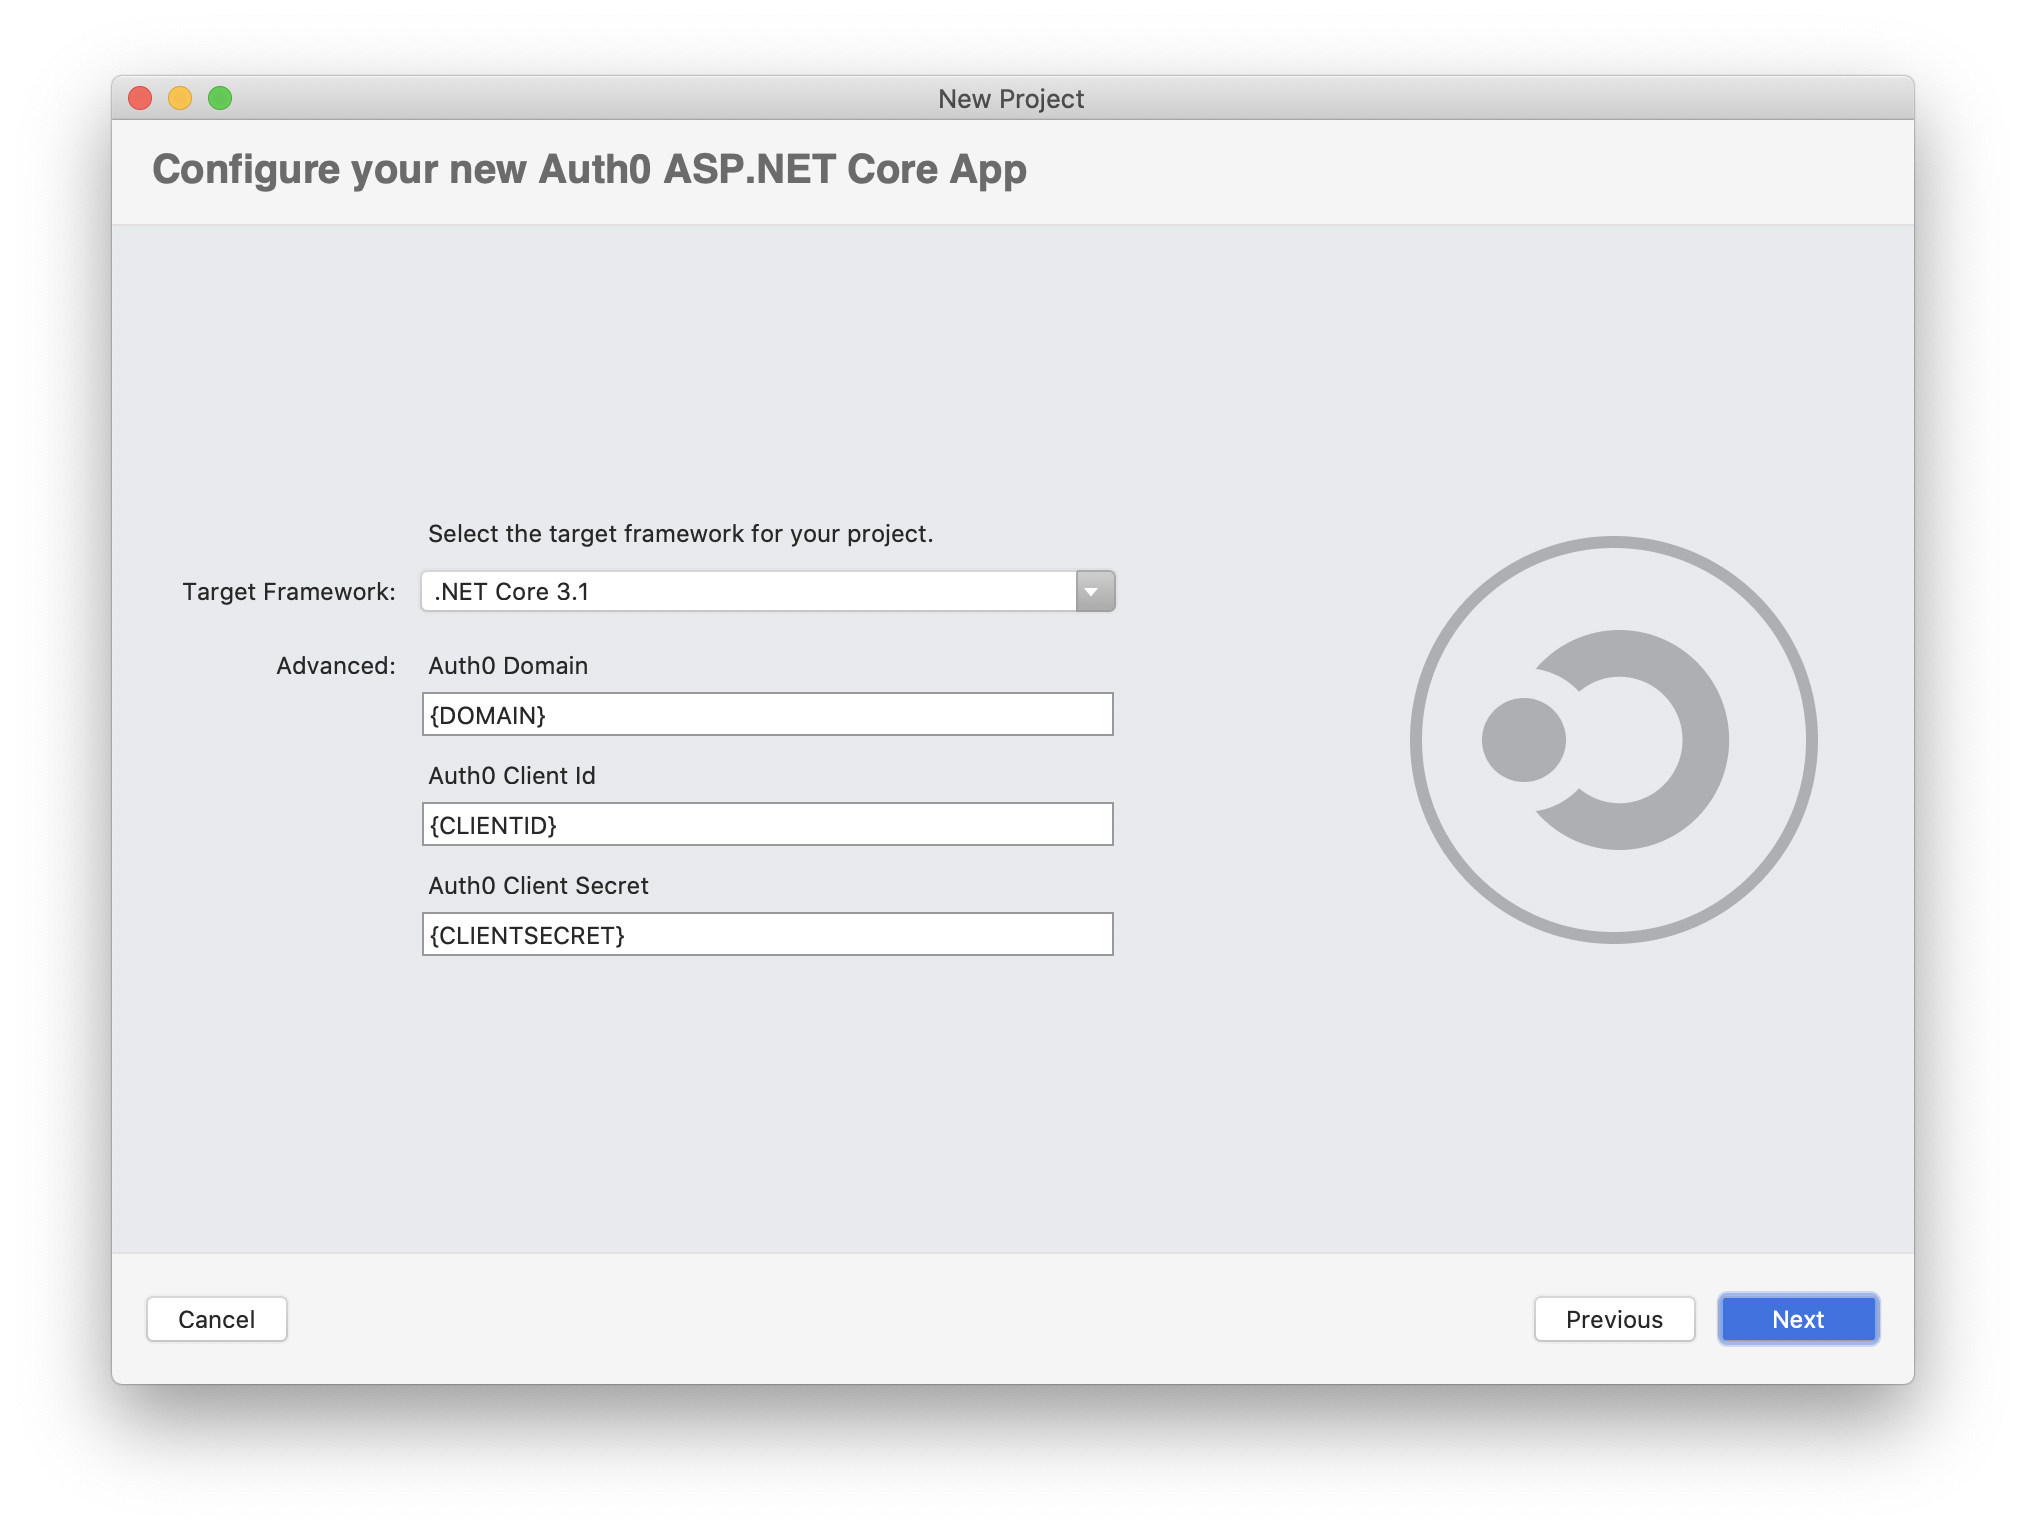
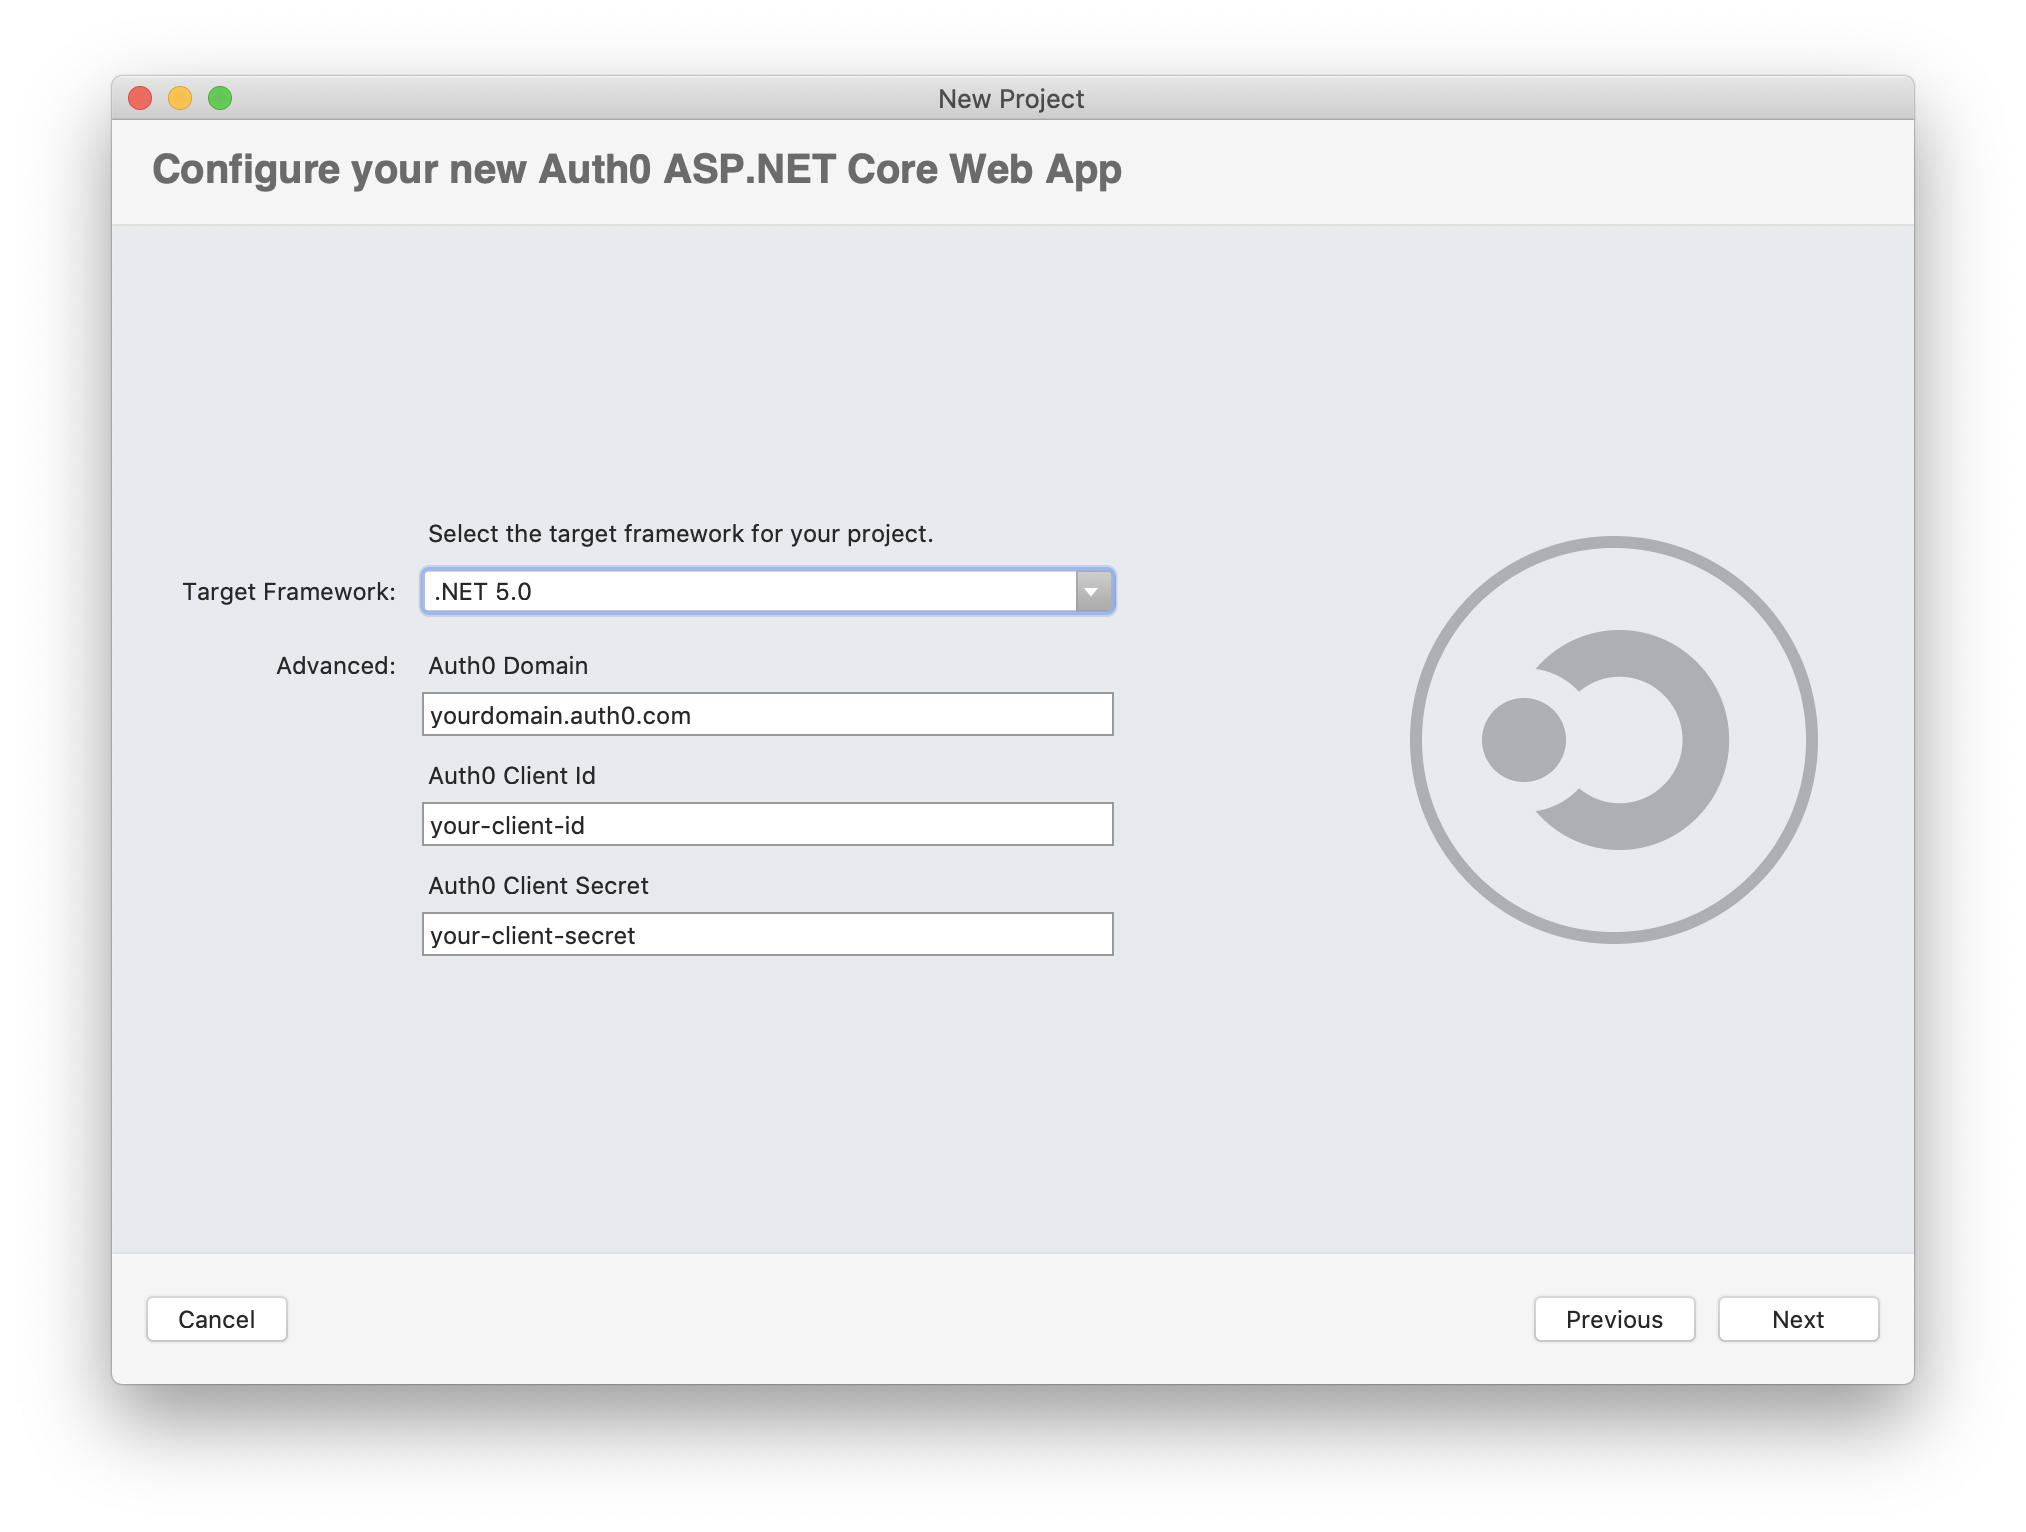
Parameter uniformity and fixed issues

diff --git a/templates/Auth0.WebAPI/Startup.cs b/templates/Auth0.WebAPI/Startup.cs
@@ -1,4 +1,4 @@
-#if (!noOpenapi)
+#if (!removeOpenAPI)
 using Auth0.WebAPI.Swagger;
 #endif
 using Microsoft.AspNetCore.Authentication.JwtBearer;
@@ -31,7 +31,7 @@ namespace Auth0.WebAPI
 
             services.AddControllers();
 
-#if (!noOpenapi)
+#if (!removeOpenAPI)
             services.AddSwaggerGenerator();
 #endif
         }
@@ -42,7 +42,7 @@ namespace Auth0.WebAPI
             if (env.IsDevelopment())
             {
                 app.UseDeveloperExceptionPage();
-#if (!noOpenapi)
+#if (!removeOpenAPI)
                 app.UseSwagger();
                 app.UseSwaggerUI(c => c.SwaggerEndpoint("/swagger/v1/swagger.json", "Auth0.WebAPI v1"));
 #endif

diff --git a/README.md b/README.md
@@ -52,19 +52,19 @@ For more information about creating and securing an ASP.NET MVC application with
 To create a new MVC application with the .NET CLI, you can run the following command:
 
 ```
-dotnet new auth0mvc [options]
+dotnet new auth0webapp [options]
 ```
 
 This will create a new MVC application in the current folder. The following template-specific options are available:
 
-- `-d` or `--domain`<br>
-  The Auth0 domain associated with your tenant. The default value is `{DOMAIN}`.
-- `-c` or `--clientId`<br>
-  The client id associated with your application. The default value is `{CLIENT_ID}`.
-- `-cl` or `--clientSecret`<br>
-  The secret associated with your application. The default value is `{CLIENT_SECRET}`.
+- `--domain`<br>
+  The Auth0 domain associated with your tenant. The default value is `yourdomain.auth0.com`.
+- `--client-id`<br>
+  The client id associated with your application. The default value is `your-client-id`.
+- `--client-secret`<br>
+  The secret associated with your application. The default value is `your-client-secret`.
 - `-f` or `--framework`<br>
-  Defines the target framework to use for the .NET project. The possible values are `netcoreapp3.1` and `net5.0`. The default value is `netcoreapp3.1`.
+  Defines the target framework to use for the .NET project. The possible values are `netcoreapp3.1` and `net5.0`. The default value is `net5.0`.
 
 
 
@@ -116,3 +116,4 @@ Then, provide the required options:
 ## License
 
 This project is licensed under the MIT license. See the [LICENSE](LICENSE) file for more info.
+
